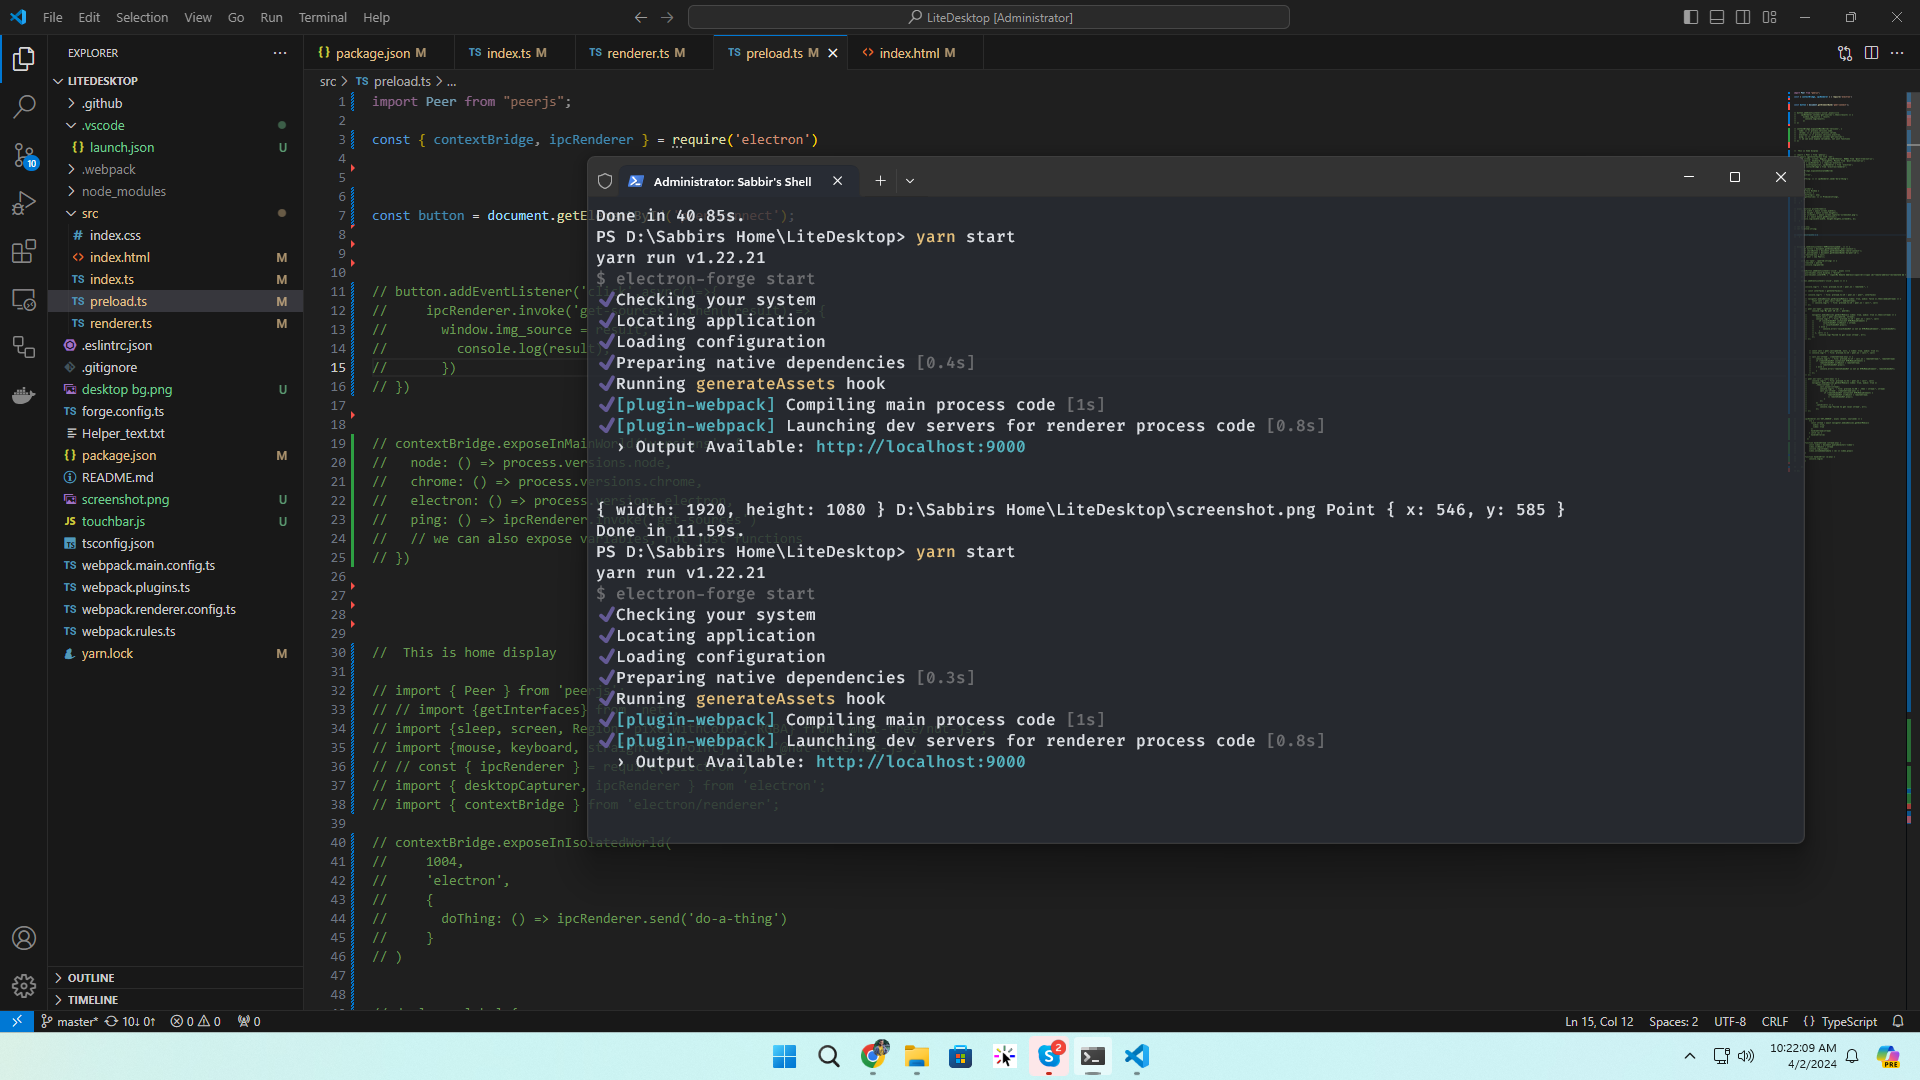
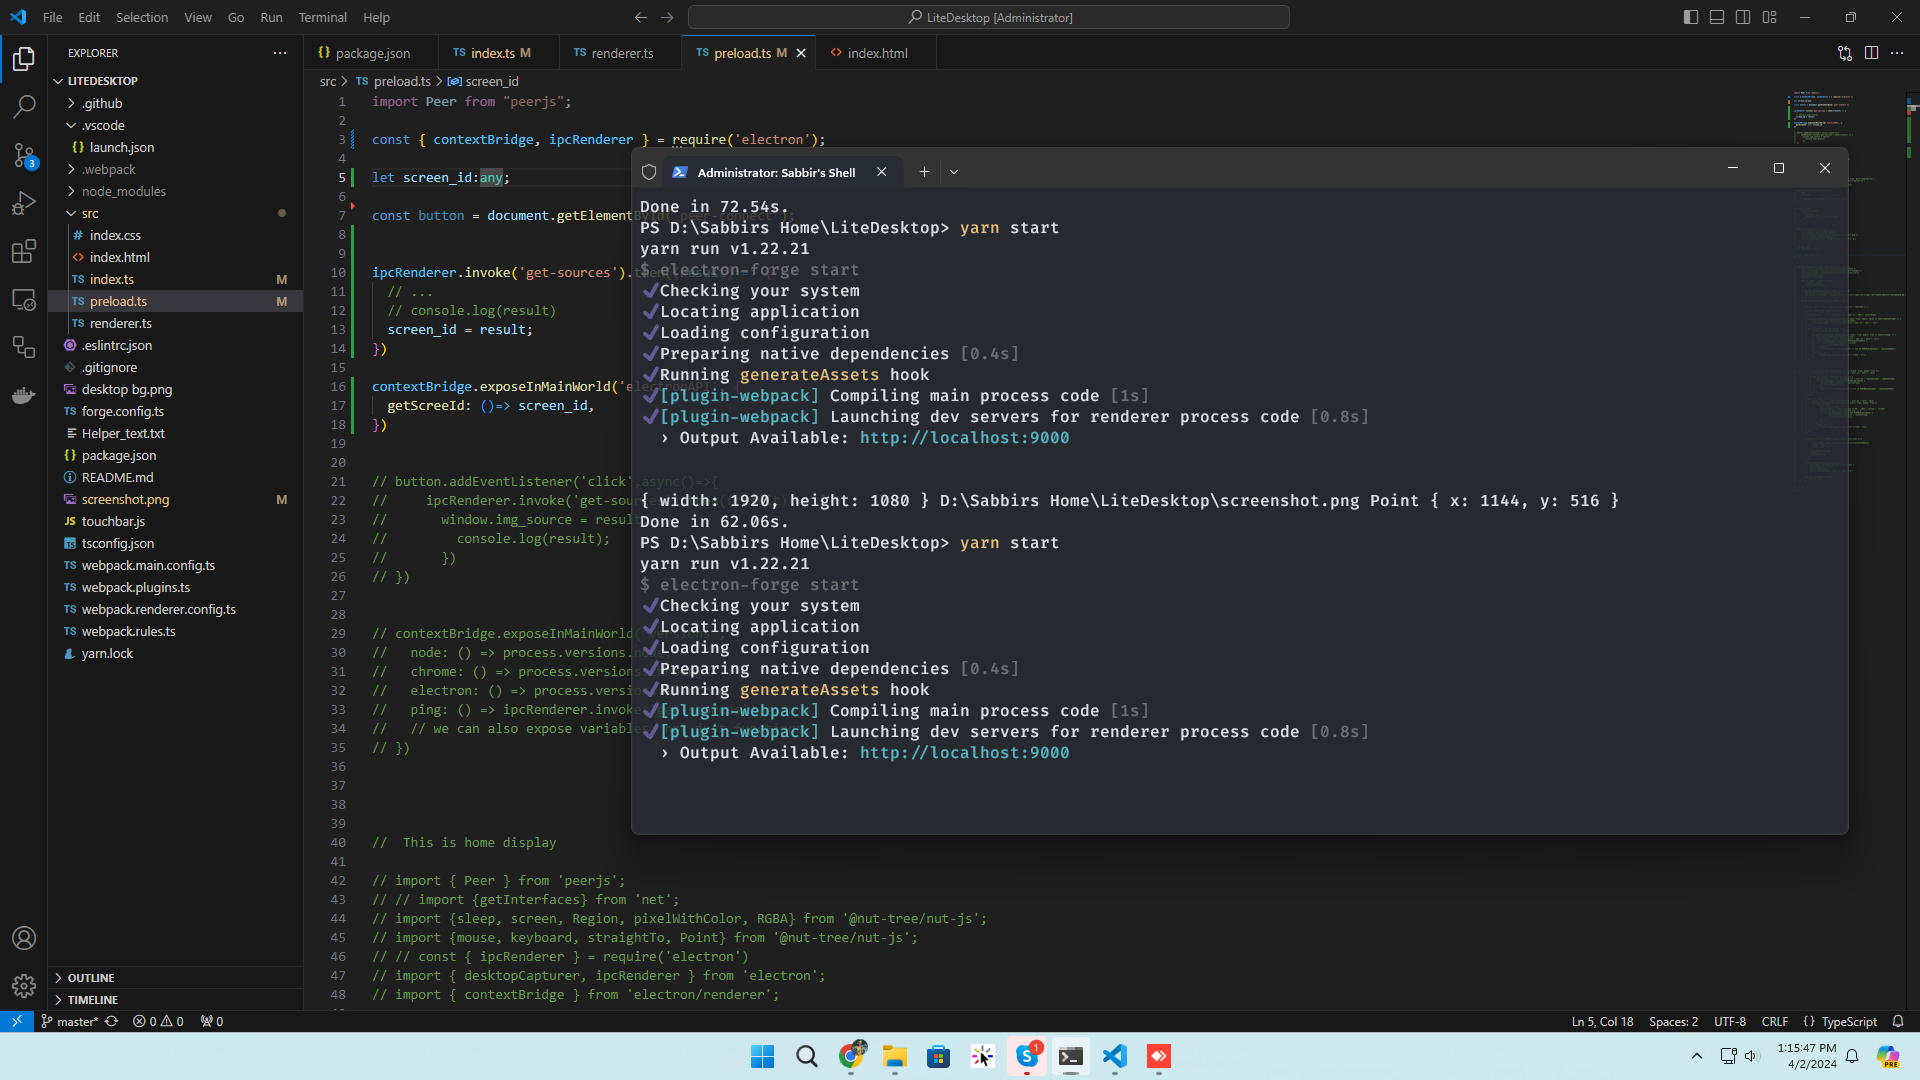
updated

diff --git a/src/index.ts b/src/index.ts
@@ -57,7 +57,7 @@ const createWindow = async () => {
     webPreferences: {
       preload: MAIN_WINDOW_PRELOAD_WEBPACK_ENTRY,
       nodeIntegration: true,
-      contextIsolation: false,
+      contextIsolation: true,
     },
   });
 
@@ -65,16 +65,40 @@ const createWindow = async () => {
   ipcMain.handle('get-sources', () => {
     return desktopCapturer.getSources({ types: ['window', 'screen'] }).then(async sources => {
       for (const source of sources) {
-        if (source.name === 'Electron') {
+        if (source.name === 'Entire screen') {
           return source.id;
         }
       }
     })
    });
+  // const getSource = () => {
+  //   return desktopCapturer.getSources({ types: ['window', 'screen'] }).then(async sources => {
+  //     for (const source of sources) {
+  //       if (source.name === 'Electron') {
+  //         return source.id;
+  //       }
+  //     }
+  //   })
+  //  };
 
 
   // and load the index.html of the app.
   mainWindow.loadURL(MAIN_WINDOW_WEBPACK_ENTRY);
+
+  mainWindow.once('ready-to-show', () => {
+    mainWindow.show()
+    mainWindow.setPosition(0,0)
+    // setTimeout(()=>{
+    //   desktopCapturer.getSources({ types: ['window', 'screen'] }).then(async sources => {
+    //     for (const source of sources) {
+    //       // console.log("this is window id", source)
+    //       if (source.name === 'Entire screen') {
+    //         console.log("this is window id", source.id)
+    //       }
+    //     }
+    //   })
+    // }, 5000)
+  })
 
   // Open the DevTools.
   // mainWindow.webContents.openDevTools();

diff --git a/src/preload.ts b/src/preload.ts
@@ -1,11 +1,21 @@
 import Peer from "peerjs";
 
-const { contextBridge, ipcRenderer } = require('electron')
+const { contextBridge, ipcRenderer } = require('electron');
 
-
+let screen_id:any;
 
 const button = document.getElementById('peer-connect');
 
+
+ipcRenderer.invoke('get-sources').then((result) => {
+  // ...
+  // console.log(result)
+  screen_id = result;
+})
+
+contextBridge.exposeInMainWorld('electronAPI', {
+  getScreeId: ()=> screen_id,
+})
 
 
 // button.addEventListener('click',async()=>{
